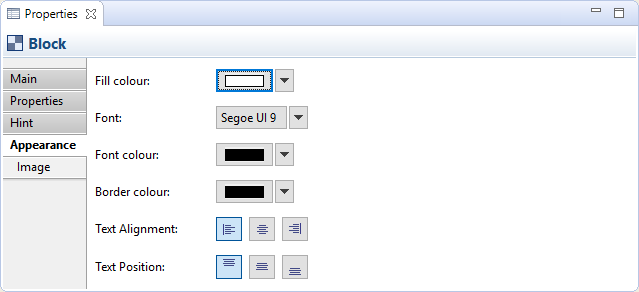
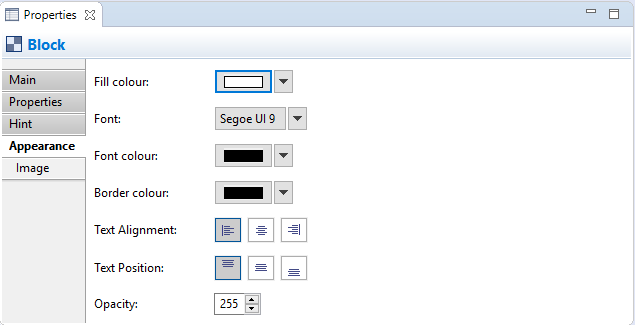
4.2.0 -> 4.3.0

Changed region(s): [[0.0, 0.0, 1.0, 1.0]]

diff --git a/com.archimatetool.help.en/nl/en/help/Text/properties_window.html b/com.archimatetool.help.en/nl/en/help/Text/properties_window.html
@@ -12,9 +12,9 @@
 
     <h1 class="pagebreak">The Properties Window</h1>
     
-    <p>The Properties Window allows you to edit the properties for  a selected element in the Model Tree or a selected figure or connection in a View. Some properties (for example, the name) are shared between an element in the Model Tree and its counterpart in a View. Some properties are only relevant for an element in a View (fill colour and font, for example).</p>
+    <p>The Properties Window allows you to edit the properties for selected elements in the Model Tree or selected figures or connections in a View. Some properties (for example, the name) are shared between an element in the Model Tree and its counterpart in a View. Some properties are only relevant for an element in a View (fill colour and font, for example).</p>
     
-    <p>To edit the Properties for a selected element or  relationship in the Model Tree or in a View, select the tree node or element in the View and open the Properties Window either by double-clicking the tree node  or View element, or from the main "Window" menu or main toolbar.</p>
+    <p>To edit the Properties for selected elements or relationships in the Model Tree or in a View, select the tree node(s) or element(s) in the View and open the Properties Window either by double-clicking the tree node or View element, or from the main "Window" menu or main toolbar.</p>
     
     <br/>
     

diff --git a/com.archimatetool.help.en/nl/en/hints/view.html b/com.archimatetool.help.en/nl/en/hints/view.html
@@ -7,8 +7,8 @@
     </head>
     
     <body>
-        <p>A <b>View</b> is a viewpoint on a model.</p>
-        <p>Create different Views for different stakeholders addressing particular sets of concerns.</p>
+        <p>A <b>View</b> is a part of an Architecture Description that addresses a set of related concerns and is tailored for specific stakeholders.</p>
+        <p>A View is specified by means of a Viewpoint, which prescribes the concepts, models, analysis techniques, and visualizations that are provided by the View.</p>
         <p>The same elements from the Model Tree can be re-used multiple times in the same or different View.</p>
     </body>
 </html>

diff --git a/com.archimatetool.help.en/nl/en/help/Text/properties_group.html b/com.archimatetool.help.en/nl/en/help/Text/properties_group.html
@@ -61,6 +61,10 @@
         <td><strong>Line colour:</strong></td>
         <td>Sets the colour of the line used to draw the Group. The "Default" button sets the line colour to the default setting. If this is disabled it is because line colours are derived from the element's fill colour, as set in Preferences.</td>
       </tr>
+      <tr valign="top">
+        <td><strong>Opacity:</strong></td>
+        <td>Set the opacity of the figure. Range from 0-255.</td>
+      </tr>
     </table>
     
     <p>&nbsp;</p>

diff --git a/com.archimatetool.help.en/nl/en/help/Text/properties_canvas_image.html b/com.archimatetool.help.en/nl/en/help/Text/properties_canvas_image.html
@@ -52,6 +52,10 @@
         <td><strong>Border colour:</strong></td>
         <td>Sets the colour of the border used for the selected element. The "None" button removes the border from the element.</td>
       </tr>
+      <tr valign="top">
+        <td><strong>Opacity:</strong></td>
+        <td>Set the opacity of the figure. Range from 0-255.</td>
+      </tr>
     </table>
     
     <p>&nbsp;</p>

diff --git a/com.archimatetool.help.en/nl/en/help/Text/properties_element_appearance.html b/com.archimatetool.help.en/nl/en/help/Text/properties_element_appearance.html
@@ -48,6 +48,10 @@
         <td><strong>Text Position:</strong></td>
         <td>Align text in the selected element to Top, Middle or Bottom.</td>
       </tr>
+      <tr valign="top">
+        <td><strong>Opacity:</strong></td>
+        <td>Set the opacity of the figure. Range from 0-255.</td>
+      </tr>
     </table>
     
     <p>&nbsp;</p>

diff --git a/com.archimatetool.help.en/nl/en/help/Text/properties_note.html b/com.archimatetool.help.en/nl/en/help/Text/properties_note.html
@@ -64,6 +64,10 @@
         <td><strong>Text Position:</strong></td>
         <td>Align text in the selected element to Top, Middle or Bottom.</td>
       </tr>
+      <tr valign="top">
+        <td><strong>Opacity:</strong></td>
+        <td>Set the opacity of the figure. Range from 0-255.</td>
+      </tr>
     </table>
     
     <p>&nbsp;</p>

diff --git a/com.archimatetool.help.en/nl/en/help/Text/properties_viewref.html b/com.archimatetool.help.en/nl/en/help/Text/properties_viewref.html
@@ -60,6 +60,10 @@
         <td><strong>Text Position:</strong></td>
         <td>Align text in the selected element to Top, Middle or Bottom.</td>
       </tr>
+      <tr valign="top">
+        <td><strong>Opacity:</strong></td>
+        <td>Set the opacity of the figure. Range from 0-255.</td>
+      </tr>
     </table>
     
     <p>&nbsp;</p>

diff --git a/com.archimatetool.help.en/nl/en/help/Text/properties_canvas_block.html b/com.archimatetool.help.en/nl/en/help/Text/properties_canvas_block.html
@@ -94,6 +94,10 @@
         <td><strong>Text Position:</strong></td>
         <td>Align text in the selected element to Top, Middle or Bottom.</td>
       </tr>
+      <tr valign="top">
+        <td><strong>Opacity:</strong></td>
+        <td>Set the opacity of the figure. Range from 0-255.</td>
+      </tr>
     </table>
     
     <br/>

diff --git a/com.archimatetool.help.en/nl/en/help/Text/properties_canvas_sticky.html b/com.archimatetool.help.en/nl/en/help/Text/properties_canvas_sticky.html
@@ -80,6 +80,10 @@
         <td><strong>Text Position:</strong></td>
         <td>Align text in the selected element to Top, Middle or Bottom.</td>
       </tr>
+      <tr valign="top">
+        <td><strong>Opacity:</strong></td>
+        <td>Set the opacity of the figure. Range from 0-255.</td>
+      </tr>
     </table>
     
     <br/>
